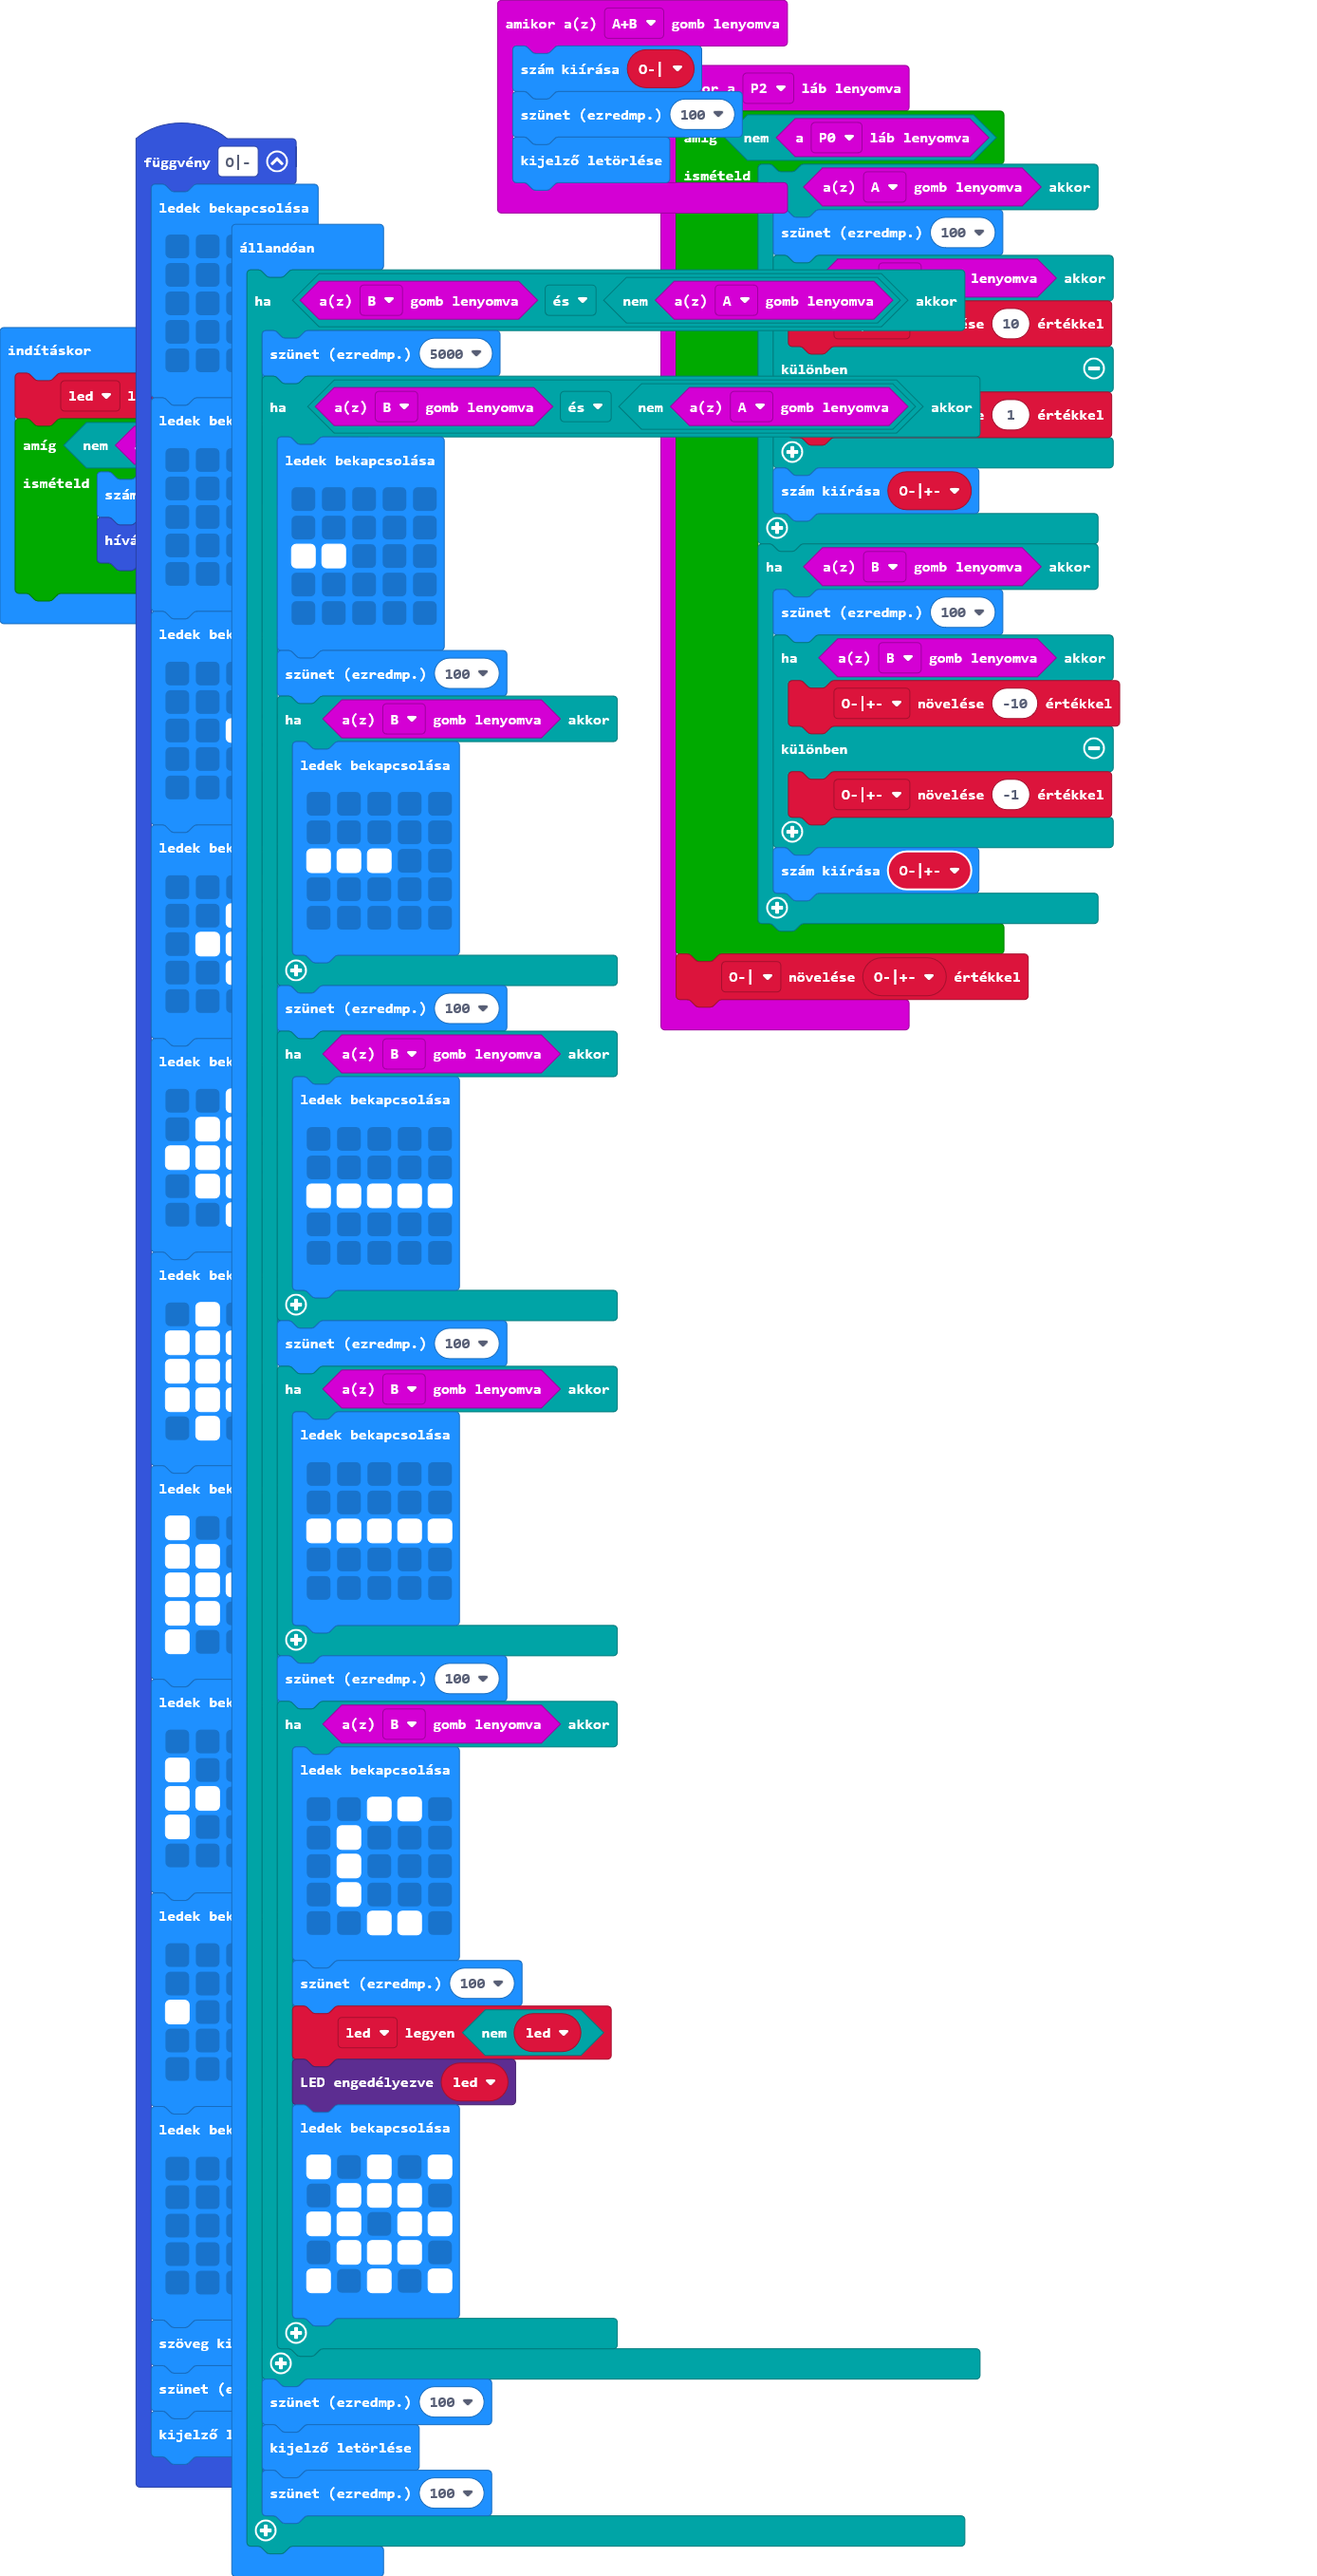
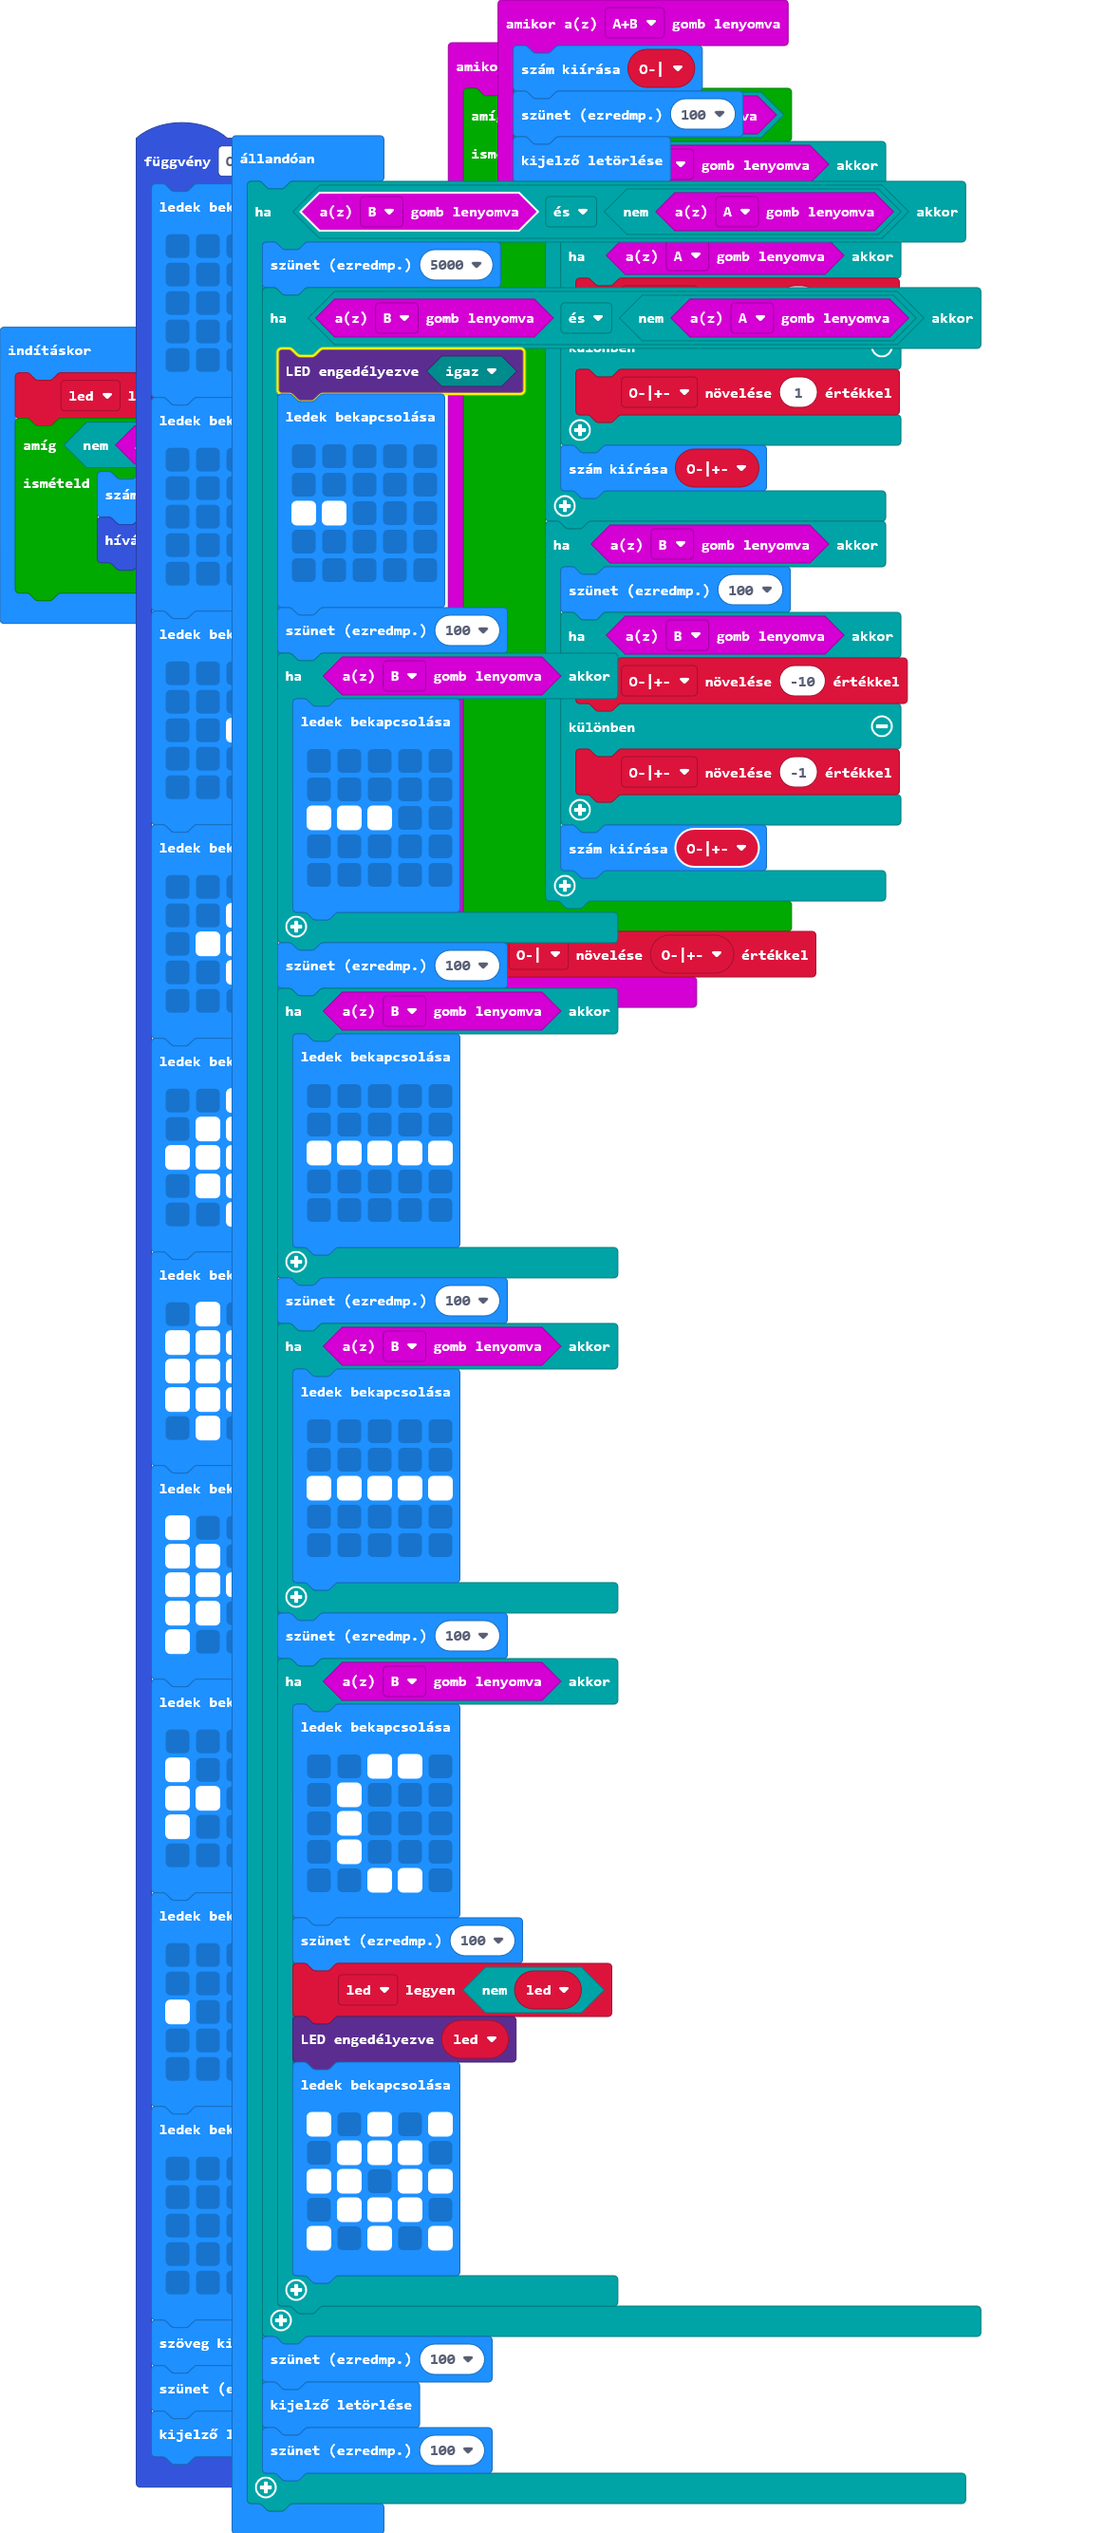
Update main.blocks, main.ts

diff --git a/main.ts b/main.ts
@@ -112,6 +112,7 @@ basic.forever(function () {
     if (input.buttonIsPressed(Button.B) && !(input.buttonIsPressed(Button.A))) {
         basic.pause(5000)
         if (input.buttonIsPressed(Button.B) && !(input.buttonIsPressed(Button.A))) {
+            led.enable(true)
             basic.showLeds(`
                 . . . . .
                 . . . . .
